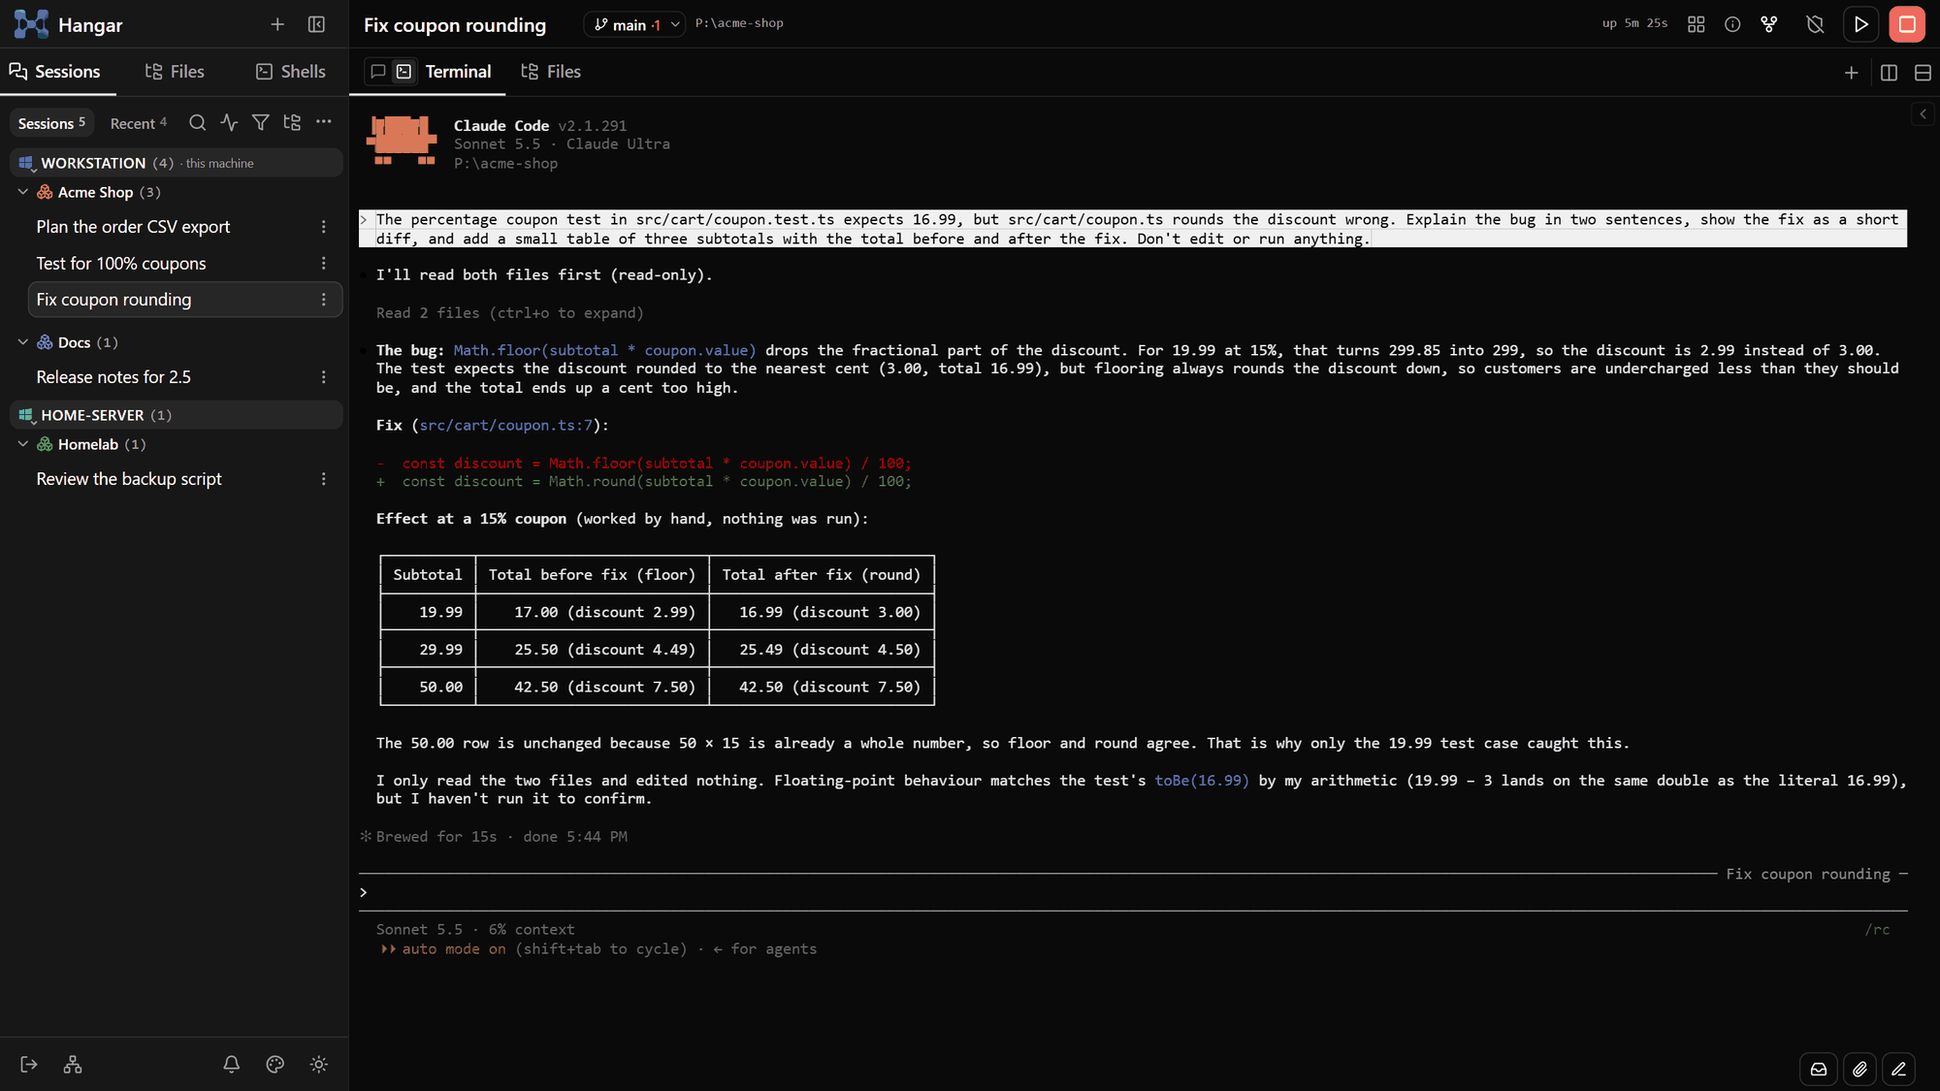
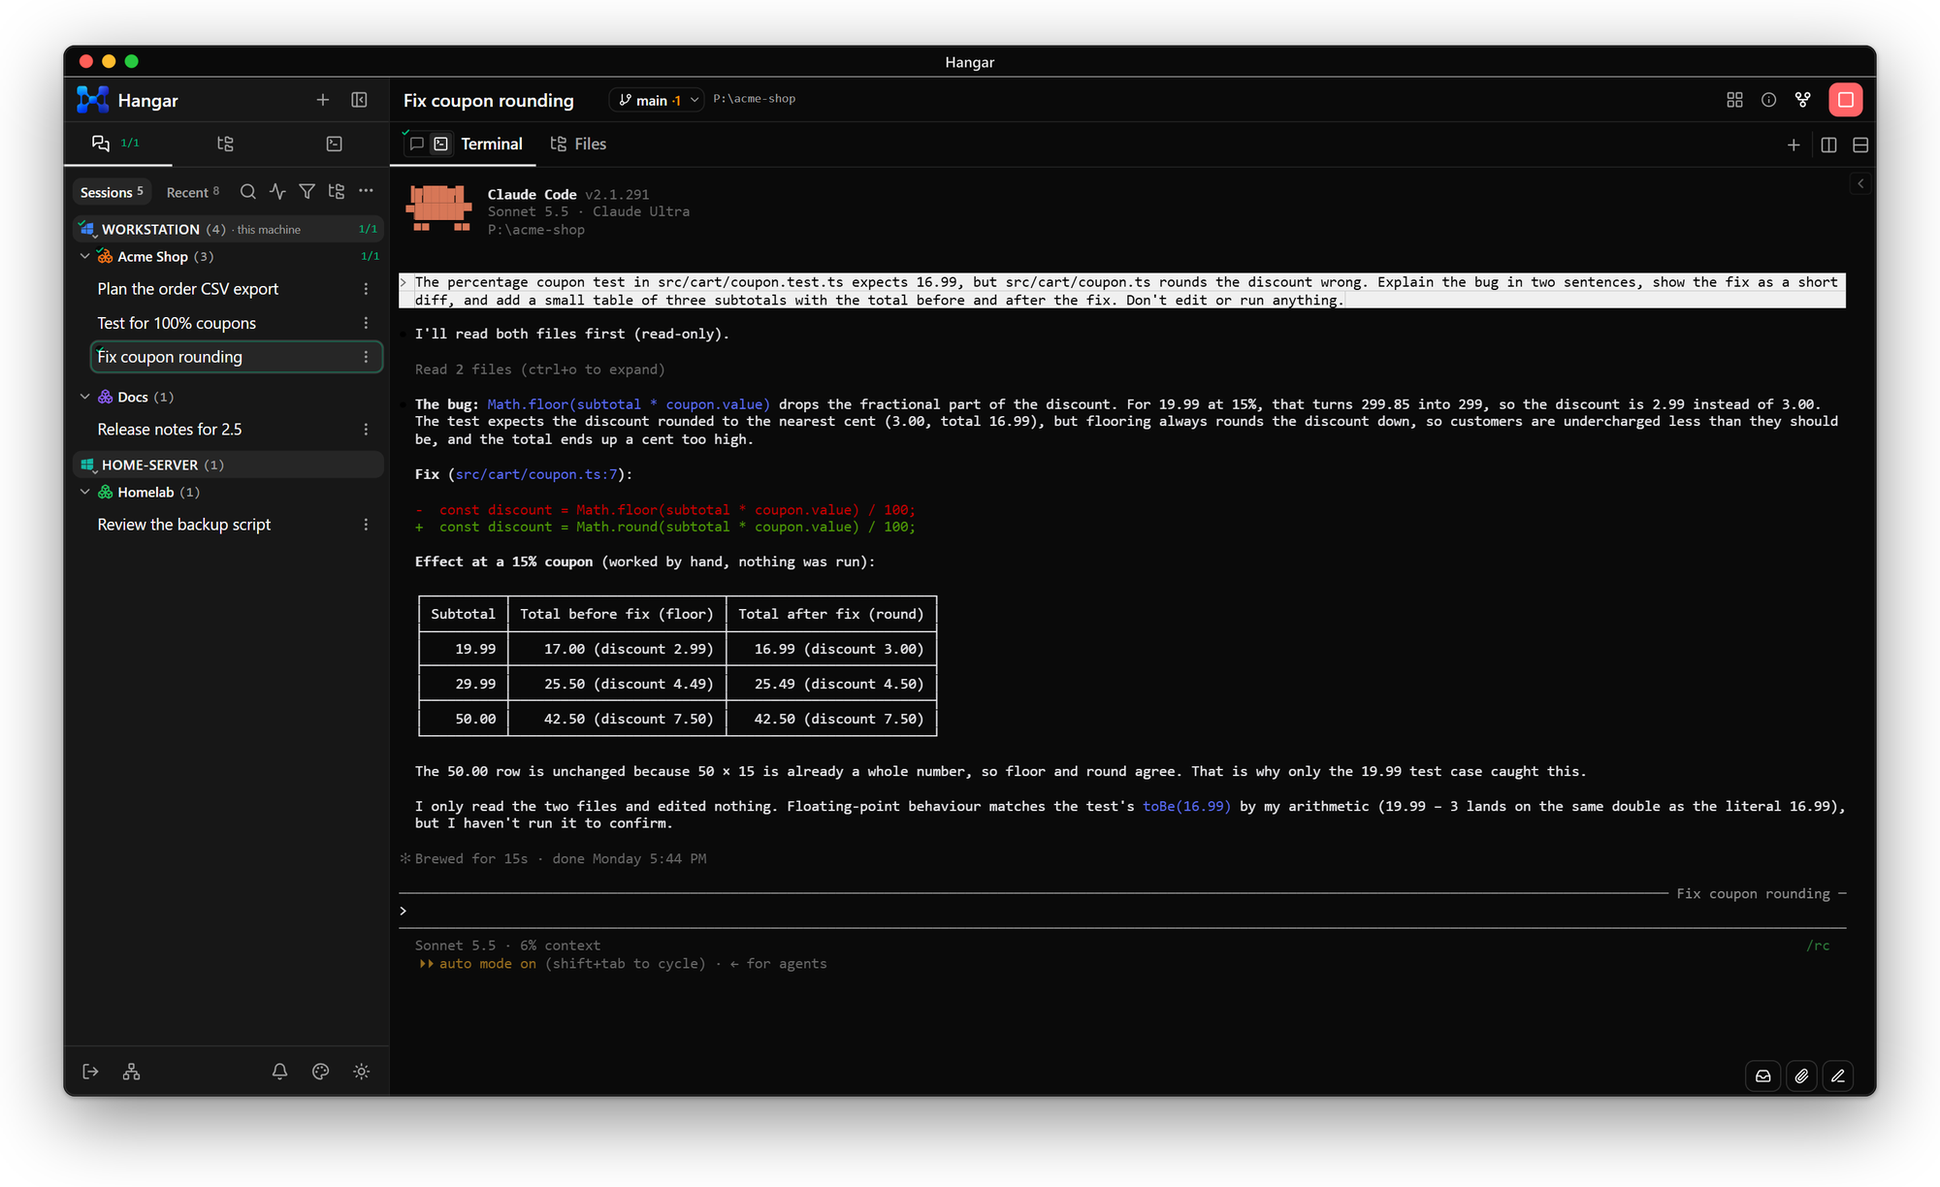
docs(readme): framed screenshots, the installed app, and a private domain over Tailscale
The screenshots are retaken on the current build and framed: the desktop ones in a macOS window,
the phone ones in an iPhone, now in light and dark like the rest. scripts/frame-screenshot.py makes
both frames, so the next set gets the same.

The README says Hangar installs as an app on the phone and desktop, with push notifications while
it is closed, and adds a third way to reach it: your own domain pointing at the machine's Tailscale
address, with Caddy getting the certificate through Cloudflare's DNS. docs/install.md walks through
that setup and its caveats.

Changed region(s): [[0.0, 0.0, 1.0, 1.0]]

diff --git a/scripts/frame-screenshot.py b/scripts/frame-screenshot.py
@@ -1,0 +1,247 @@
+"""Puts a screenshot in a device frame for the README and docs: a macOS window around a desktop shot,
+an iPhone around a phone shot. The result is a PNG on a transparent background, with a soft shadow, so
+it sits on GitHub's light and dark pages alike. Needs Pillow (pip install pillow).
+
+    python scripts/frame-screenshot.py mac    <in.png> <out.png> [--dpr 1.75] [--title Hangar] [--width 2000]
+    python scripts/frame-screenshot.py iphone <in.png> <out.png> [--width 800]
+
+mac: the shot is the window's content, taken at `--dpr` device pixels per CSS pixel; the title bar
+takes the colour of the shot's top edge, as an installed web app's does.
+
+iphone: the shot is an iPhone 15 Pro's screen less its status bar and home indicator, the area an
+installed web app lays out in: 393x759 CSS px (852 less the insets of 59 and 34), at any scale. The
+frame adds the status bar (9:41, signal, Wi-Fi, battery) above it and the home indicator below it,
+in the colours of the shot's edges.
+
+Light or dark comes from the shot itself (its top edge), so a light and a dark shot each get a
+matching frame.
+"""
+
+import argparse
+from pathlib import Path
+
+from PIL import Image, ImageDraw, ImageFilter, ImageFont
+
+# Drawn this many times larger, then scaled down, so curves and small glyphs come out smooth.
+SS = 4
+
+FONTS = [
+    "seguisb.ttf",                      # Windows: Segoe UI Semibold
+    "/System/Library/Fonts/SFNS.ttf",   # macOS: San Francisco
+    "DejaVuSans-Bold.ttf",              # Linux
+    "arialbd.ttf",
+]
+
+
+def font(size: float) -> ImageFont.FreeTypeFont:
+    for name in FONTS:
+        try:
+            return ImageFont.truetype(name, round(size))
+        except OSError:
+            continue
+    return ImageFont.load_default(round(size))
+
+
+def is_dark(rgb) -> bool:
+    r, g, b = rgb[:3]
+    return 0.2126 * r + 0.7152 * g + 0.0722 * b < 128
+
+
+def edge_colour(img: Image.Image, y: int):
+    """The most common colour along row y: the bar's background, not the odd icon on it."""
+    row = img.convert("RGB").crop((0, y, img.width, y + 1))
+    return max(row.getcolors(img.width), key=lambda c: c[0])[1]
+
+
+def rounded_mask(size, radius: float) -> Image.Image:
+    """An antialiased rounded rectangle, as an alpha mask of `size`."""
+    w, h = size
+    big = Image.new("L", (w * SS, h * SS), 0)
+    ImageDraw.Draw(big).rounded_rectangle((0, 0, w * SS - 1, h * SS - 1), radius * SS, fill=255)
+    return big.resize(size, Image.LANCZOS)
+
+
+def shadow(size, radius: float, box, blur: float, alpha: int, dy: float) -> Image.Image:
+    """A blurred dark rounded rectangle under `box` (left, top, right, bottom), on a canvas of `size`."""
+    layer = Image.new("L", size, 0)
+    l, t, r, b = box
+    ImageDraw.Draw(layer).rounded_rectangle((l, t + dy, r, b + dy), radius, fill=alpha)
+    layer = layer.filter(ImageFilter.GaussianBlur(blur))
+    out = Image.new("RGBA", size, (0, 0, 0, 0))
+    out.putalpha(layer)
+    return out
+
+
+def with_shadows(body: Image.Image, pt: float, radius: float, margin, shadows) -> Image.Image:
+    """`body` (corner `radius` pt) on a transparent canvas with room around it, and its shadows (blur,
+    alpha, dy in pt)."""
+    ml, mt, mr, mb = (round(m * pt) for m in margin)
+    size = (body.width + ml + mr, body.height + mt + mb)
+    canvas = Image.new("RGBA", size, (0, 0, 0, 0))
+    box = (ml, mt, ml + body.width, mt + body.height)
+    for blur, alpha, dy in shadows:
+        canvas = Image.alpha_composite(canvas, shadow(size, radius * pt, box, blur * pt, alpha, dy * pt))
+    canvas.alpha_composite(body, (ml, mt))
+    return canvas
+
+
+def finish(img: Image.Image, width: int | None, out: Path):
+    if width and img.width != width:
+        img = img.resize((width, round(img.height * width / img.width)), Image.LANCZOS)
+    img.save(out, optimize=True)
+    print(f"{out}: {img.width}x{img.height}, {out.stat().st_size // 1024} KB")
+
+
+def mac(shot: Image.Image, dpr: float, title: str) -> Image.Image:
+    """A macOS window: title bar with the traffic lights and a centred title, rounded corners, a hairline."""
+    pt = dpr
+    bar_h = round(28 * pt)
+    bg = edge_colour(shot, 0)
+    dark = is_dark(bg)
+    w, h = shot.width, shot.height + bar_h
+
+    big = Image.new("RGBA", (w * SS, h * SS), bg + (255,))
+    d = ImageDraw.Draw(big)
+    # The bar's lower edge, the same hairline the app's own header has.
+    line = (255, 255, 255, 28) if dark else (0, 0, 0, 30)
+    d.rectangle((0, bar_h * SS - SS, w * SS, bar_h * SS), fill=line)
+    cy = bar_h * SS / 2
+    for i, (fill, rim) in enumerate([((255, 95, 87), (224, 68, 62)),
+                                     ((254, 188, 46), (222, 161, 35)),
+                                     ((40, 200, 64), (26, 171, 41))]):
+        cx = (20 + 20 * i) * pt * SS
+        r = 6 * pt * SS
+        d.ellipse((cx - r, cy - r, cx + r, cy + r), fill=fill, outline=rim, width=round(0.5 * pt * SS))
+    if title:
+        f = font(13 * pt * SS)
+        d.text((w * SS / 2, cy), title, font=f, anchor="mm",
+               fill=(223, 223, 223) if dark else (77, 77, 77))
+    window = big.resize((w, h), Image.LANCZOS)
+    window.paste(shot.convert("RGBA"), (0, bar_h))
+
+    radius = 10 * pt
+    window.putalpha(rounded_mask(window.size, radius))
+    # The edge macOS draws around a window: dark outside, and a faint light rim inside on a dark one.
+    rim = Image.new("RGBA", (w * SS, h * SS), (0, 0, 0, 0))
+    rd = ImageDraw.Draw(rim)
+    rd.rounded_rectangle((0, 0, w * SS - 1, h * SS - 1), radius * SS,
+                         outline=(0, 0, 0, 110 if dark else 60), width=round(1 * pt * SS))
+    if dark:
+        inset = round(1 * pt * SS)
+        rd.rounded_rectangle((inset, inset, w * SS - 1 - inset, h * SS - 1 - inset), radius * SS - inset,
+                             outline=(255, 255, 255, 40), width=round(0.75 * pt * SS))
+    window.alpha_composite(rim.resize((w, h), Image.LANCZOS))
+
+    return with_shadows(window, pt, 10, margin=(56, 40, 56, 80),
+                        shadows=[(30, 120 if dark else 95, 18), (2, 70 if dark else 40, 1)])
+
+
+# iPhone 15 Pro, in points.
+SCREEN_W, SCREEN_H = 393, 852
+INSET_TOP, INSET_BOTTOM = 59, 34
+SCREEN_RADIUS = 55
+BEZEL = 13        # black glass border around the screen
+FRAME = 3.5       # the titanium band around that
+
+
+def status_bar(d: ImageDraw.ImageDraw, k: float, ink):
+    """9:41, then signal, Wi-Fi and battery, drawn at k device pixels per point."""
+    cy = 31 * k
+    d.text((61 * k, cy), "9:41", font=font(17 * k), anchor="mm", fill=ink)
+
+    # Signal: four bars, rising.
+    x = 300 * k
+    for i, bh in enumerate((4, 6.3, 8.6, 11)):
+        l = x + i * 4.5 * k
+        d.rounded_rectangle((l, cy + 5.5 * k - bh * k, l + 3 * k, cy + 5.5 * k), 0.9 * k, fill=ink)
+
+    # Wi-Fi: a wedge and two arcs, from one point under them.
+    ox, oy = 331.5 * k, cy + 5.8 * k
+    for r, wdt in ((3.4, None), (7.4, 2.3), (11.4, 2.3)):
+        box = (ox - r * k, oy - r * k, ox + r * k, oy + r * k)
+        if wdt is None:
+            d.pieslice(box, 225, 315, fill=ink)
+        else:
+            d.arc(box, 225, 315, fill=ink, width=round(wdt * k))
+
+    # Battery: an outline, the charge inside it, and the cap.
+    l, t = 348 * k, cy - 6.25 * k
+    faint = ink[:3] + (100,)
+    d.rounded_rectangle((l, t, l + 25 * k, t + 12.5 * k), 4 * k, outline=faint, width=round(1 * k))
+    d.rounded_rectangle((l + 2 * k, t + 2 * k, l + 23 * k, t + 10.5 * k), 2.5 * k, fill=ink)
+    d.rounded_rectangle((l + 26.2 * k, t + 4.2 * k, l + 27.7 * k, t + 8.3 * k), 0.8 * k, fill=faint)
+
+
+def iphone(shot: Image.Image) -> Image.Image:
+    """An iPhone 15 Pro around a web app's area: status bar, Dynamic Island, home indicator, bezel."""
+    pt = shot.width / SCREEN_W
+    expect = round((SCREEN_H - INSET_TOP - INSET_BOTTOM) * pt)
+    if abs(shot.height - expect) > 2:
+        raise SystemExit(f"expected a {SCREEN_W}x{SCREEN_H - INSET_TOP - INSET_BOTTOM} pt shot "
+                         f"({shot.width}x{expect} px at this width), got {shot.width}x{shot.height}")
+
+    top, bottom = edge_colour(shot, 0), edge_colour(shot, shot.height - 1)
+    dark = is_dark(top)
+    ink = (255, 255, 255, 255) if dark else (0, 0, 0, 255)
+
+    # The screen: status bar, the shot, home indicator.
+    sw, sh = round(SCREEN_W * pt), round(SCREEN_H * pt)
+    k = pt * SS
+    big = Image.new("RGBA", (sw * SS, sh * SS), top + (255,))
+    d = ImageDraw.Draw(big)
+    d.rectangle((0, (SCREEN_H - INSET_BOTTOM) * k, sw * SS, sh * SS), fill=bottom + (255,))
+    status_bar(d, k, ink)
+    # Dynamic Island.
+    d.rounded_rectangle(((SCREEN_W - 126) / 2 * k, 11 * k, (SCREEN_W + 126) / 2 * k, 48.3 * k),
+                        18.7 * k, fill=(0, 0, 0, 255))
+    # Home indicator.
+    hb = (255, 255, 255, 255) if is_dark(bottom) else (0, 0, 0, 255)
+    d.rounded_rectangle(((SCREEN_W - 134) / 2 * k, (SCREEN_H - 13) * k,
+                         (SCREEN_W + 134) / 2 * k, (SCREEN_H - 8) * k), 2.5 * k, fill=hb)
+    screen = big.resize((sw, sh), Image.LANCZOS)
+    screen.paste(shot.convert("RGBA"), (0, round(INSET_TOP * pt)))
+    screen.putalpha(rounded_mask(screen.size, SCREEN_RADIUS * pt))
+
+    # The body: titanium band, black bezel, then the screen; buttons stand out of the band's sides.
+    edge = BEZEL + FRAME
+    btn = 2.2
+    bw, bh = round((SCREEN_W + 2 * edge + 2 * btn) * pt), round((SCREEN_H + 2 * edge) * pt)
+    big = Image.new("RGBA", (bw * SS, bh * SS), (0, 0, 0, 0))
+    d = ImageDraw.Draw(big)
+    titanium = (78, 78, 82, 255) if dark else (160, 160, 166, 255)
+    shade = (56, 56, 60, 255) if dark else (128, 128, 134, 255)
+    left, right = btn * k, (SCREEN_W + 2 * edge + btn) * k
+    # Action button and the volume pair on the left, the side button on the right.
+    for (y0, y1) in ((120, 152), (178, 238), (256, 316)):
+        d.rounded_rectangle((0, y0 * k, left + 2 * k, y1 * k), 1.2 * k, fill=shade)
+    d.rounded_rectangle((right - 2 * k, 210 * k, bw * SS, 312 * k), 1.2 * k, fill=shade)
+    body_r = (SCREEN_RADIUS + edge) * k
+    d.rounded_rectangle((left, 0, right, bh * SS - 1), body_r, fill=titanium)
+    d.rounded_rectangle((left + 0.8 * k, 0.8 * k, right - 0.8 * k, bh * SS - 1 - 0.8 * k),
+                        body_r - 0.8 * k, outline=(255, 255, 255, 60), width=round(0.6 * k))
+    d.rounded_rectangle((left + FRAME * k, FRAME * k, right - FRAME * k, bh * SS - FRAME * k),
+                        (SCREEN_RADIUS + BEZEL) * k, fill=(8, 8, 10, 255))
+    body = big.resize((bw, bh), Image.LANCZOS)
+    body.alpha_composite(screen, (round((btn + edge) * pt), round(edge * pt)))
+
+    return with_shadows(body, pt, SCREEN_RADIUS + BEZEL + FRAME, margin=(36, 28, 36, 56),
+                        shadows=[(24, 110 if dark else 90, 14), (2, 60, 1)])
+
+
+def main():
+    ap = argparse.ArgumentParser(description="Frame a screenshot as a macOS window or an iPhone.")
+    ap.add_argument("device", choices=["mac", "iphone"])
+    ap.add_argument("input", type=Path)
+    ap.add_argument("output", type=Path)
+    ap.add_argument("--dpr", type=float, default=2.0, help="mac: device pixels per CSS pixel of the shot")
+    ap.add_argument("--title", default="Hangar", help="mac: the window's title ('' for none)")
+    ap.add_argument("--width", type=int, help="scale the framed result to this width in pixels")
+    a = ap.parse_args()
+
+    shot = Image.open(a.input).convert("RGB")
+    framed = mac(shot, a.dpr, a.title) if a.device == "mac" else iphone(shot)
+    finish(framed, a.width, a.output)
+
+
+if __name__ == "__main__":
+    main()

diff --git a/docs/install.md b/docs/install.md
@@ -184,6 +184,64 @@ firewall prompt: prefer a reverse proxy, or limit the port with `ufw`/`nftables`
 push notifications and the phone PWA), keep the `127.0.0.1` bind and put a TLS proxy or
 `tailscale serve` in front, and set `Server:PublicUrl` to the address people should be sent to.
 
+## Your own domain over Tailscale
+
+`tailscale serve` is the quickest way to HTTPS. With a domain of your own you can have
+`https://hangar.example.com` instead, still reachable only from your own devices, at no cost:
+
+- **Tailscale** carries the traffic. Nothing is opened to the internet.
+- **A DNS record** points the name at the machine's Tailscale address.
+- **Caddy** terminates HTTPS on the machine and passes requests to Hangar.
+- **Cloudflare** hosts the domain's DNS (the free plan). Caddy proves to Let's Encrypt that the name
+  is yours by writing a DNS record through Cloudflare's API (the ACME DNS-01 challenge), so it gets a
+  real certificate for a server nobody else can reach. Cloudflare's proxy is not involved: it could
+  not reach a Tailscale address anyway.
+
+1. **Tailscale.** Install it on the Hangar machine and on each device you'll use, signed in to the same
+   tailnet. On the Hangar machine, `tailscale ip -4` prints its address, `100.x.y.z`.
+2. **The DNS record.** In Cloudflare's dashboard, under your domain's **DNS > Records**, add an `A`
+   record: name `hangar`, IPv4 address `100.x.y.z`, proxy status **DNS only** (the grey cloud).
+3. **An API token for Caddy.** **My Profile > API Tokens > Create Token**, the **Edit zone DNS**
+   template, limited to that one zone. Keep the token for the next step.
+4. **Caddy with the Cloudflare module.** The stock build can't talk to Cloudflare. Download one from
+   [caddyserver.com/download](https://caddyserver.com/download) with `caddy-dns/cloudflare` ticked, or
+   build it with `xcaddy build --with github.com/caddy-dns/cloudflare`. Its Caddyfile:
+
+   ```caddyfile
+   hangar.example.com {
+       tls {
+           dns cloudflare {env.CF_API_TOKEN}
+       }
+       reverse_proxy 127.0.0.1:5099
+   }
+   ```
+
+   Run Caddy with the token in `CF_API_TOKEN`, as a service so it comes back after a restart. It fetches
+   the certificate on first start and renews it on its own. WebSockets, which the terminal and the
+   live session list use, pass through `reverse_proxy` as they are.
+5. **Hangar.** Leave it on `127.0.0.1:5099` and set `"Server": { "PublicUrl": "https://hangar.example.com" }`
+   in `appsettings.Local.json`, so the tray and push notifications link to that address. Caddy marks
+   the requests as forwarded, so Hangar asks for the password: set one first (see
+   [First run](#first-run-set-a-password)).
+
+Open `https://hangar.example.com` on your phone with Tailscale on, add it to the home screen, and
+turn on notifications with the bell.
+
+Worth knowing:
+
+- **The address is public, the server isn't.** Anyone can look the name up and see `100.x.y.z`, but that
+  address only leads anywhere from inside your tailnet.
+- **Each device needs Tailscale switched on** to reach it, the phone included.
+- **More services, one proxy.** Add a site block per name, or a wildcard: a `*` record to the same
+  address and a `*.example.com` block, so every new service gets its name and certificate without
+  touching DNS again.
+- **Caddy listens on every interface** by default, so the name also works for anyone on your LAN who
+  points it at the machine's LAN address. To answer on Tailscale only, add `bind 100.x.y.z` inside the
+  site block (Caddy then needs Tailscale up before it starts).
+- **Some home routers filter DNS answers** that point at private addresses (DNS rebinding protection).
+  If the name doesn't resolve at home but does over mobile data, allow your domain in the router's
+  rebinding settings.
+
 ## Running as a Windows service
 
 For a server that has to keep running while nobody is signed in. Install it with `deploy.ps1` first,

diff --git a/README.md b/README.md
@@ -29,6 +29,11 @@ them.
 - **Know what every session is doing.** Working, compacting, finished, failed on an API error, or
   waiting on you, with the command it wants permission to run. The ones that need you raise a
   notification in the page and a push notification on your phone.
+- **An app on your phone and desktop.** Install it from the browser (*Install app* in Chrome or Edge,
+  *Add to Home Screen* on an iPhone, *Add to Dock* in Safari on a Mac) and Hangar opens in a window of
+  its own, from its own icon. Turn on notifications with the bell, and a session that needs you
+  reaches your phone even with the app closed. On an iPhone that takes the home-screen app (iOS 16.4
+  or later).
 - **Everything around the conversation.** A file browser and editor, shell tabs in the session's
   folder, another machine's files over SSH, the pages a session works from, and GitHub pull requests
   to review, each as a tab beside the terminal.
@@ -52,15 +57,25 @@ computer, keep it there and put HTTPS in front:
 
 - **Tailscale**: `tailscale serve --bg 5099` publishes it at `https://<machine>.<tailnet>.ts.net`,
   with a real certificate, reachable only from your own devices.
-- **Your own domain**: any TLS reverse proxy (Caddy, nginx) in front of `127.0.0.1:5099`.
+- **Tailscale with your own domain**, free: `hangar.example.com` pointing at the machine's Tailscale
+  address, and Caddy fetching its certificate through Cloudflare's DNS. Still private to your devices,
+  under a name you pick, and one proxy serves any number of such names.
+  See [Your own domain over Tailscale](docs/install.md#your-own-domain-over-tailscale).
+- **Your own domain, in public**: any TLS reverse proxy (Caddy, nginx) in front of `127.0.0.1:5099`.
 
 HTTPS is what the phone app and push notifications need. **Set a password first**: anyone who can log
 in to Hangar has a shell on that machine as you (see [Security model](#security-model)).
 
 <p align="center">
-  <img src="docs/images/phone-sessions.png" alt="Hangar on a phone: the session list, grouped by machine and project" width="260">
+  <picture>
+    <source media="(prefers-color-scheme: dark)" srcset="docs/images/phone-sessions-dark.png">
+    <img src="docs/images/phone-sessions-light.png" alt="Hangar on an iPhone: the session list, grouped by machine and project" width="280">
+  </picture>
   &nbsp;&nbsp;
-  <img src="docs/images/phone-chat.png" alt="Hangar on a phone: a session's chat, with a drafted Markdown section shown rendered" width="260">
+  <picture>
+    <source media="(prefers-color-scheme: dark)" srcset="docs/images/phone-chat-dark.png">
+    <img src="docs/images/phone-chat-light.png" alt="Hangar on an iPhone: a session's chat, with a drafted Markdown section shown rendered" width="280">
+  </picture>
 </p>
 
 **Runs on** Windows, Linux and macOS. **Needs** the Claude Code CLI (v2.1.51 or later), logged in with a

diff --git a/docs/features.md b/docs/features.md
@@ -379,7 +379,9 @@ screenshot is this session as a chat):
   tab closed — carrying the same line. A folder or project heading shows the most urgent mark under
   it, so a collapsed group can't hide a question.
 - **Responsive** — collapsible session sidebar on desktop; a slide-over drawer on mobile, installable
-  as a PWA over HTTPS.
+  as a PWA over HTTPS: *Install app* in Chrome or Edge, *Add to Home Screen* on an iPhone, *Add to
+  Dock* in Safari on a Mac. It then opens in its own window, and push notifications reach it with the
+  app closed; on an iPhone, push works only in the home-screen app (iOS 16.4 or later).
 - **Colour themes** — a light/dark switch, plus a Themes dialog with sixteen built-in themes (GitHub,
   Solarized, One, Catppuccin, Gruvbox, Rosé Pine, Dracula, Nord, Tokyo Night and Hangar's own), one
   picked for light mode and one for dark, optionally following the system's setting. A theme colours

diff --git a/CONTRIBUTING.md b/CONTRIBUTING.md
@@ -98,7 +98,8 @@ scripts/  build.ps1, deploy.ps1, register-autostart.ps1, uninstall.ps1, install-
           _paths.ps1 (install/staging/data folder resolution, dot-sourced by the others), hgr-new-session.ps1;
           build.sh, install-unix.sh, stage-update.sh + apply-update.sh (the same, for Linux and macOS);
           stage-update-remote.sh (stage a Linux/macOS build on another machine over ssh);
-          install.sh, install.ps1 (the one-line installers, attached to each release)
+          install.sh, install.ps1 (the one-line installers, attached to each release);
+          make-icons.py (every icon from the logo), frame-screenshot.py (a docs screenshot in a macOS window or an iPhone)
 ```
 
 ## Checks
